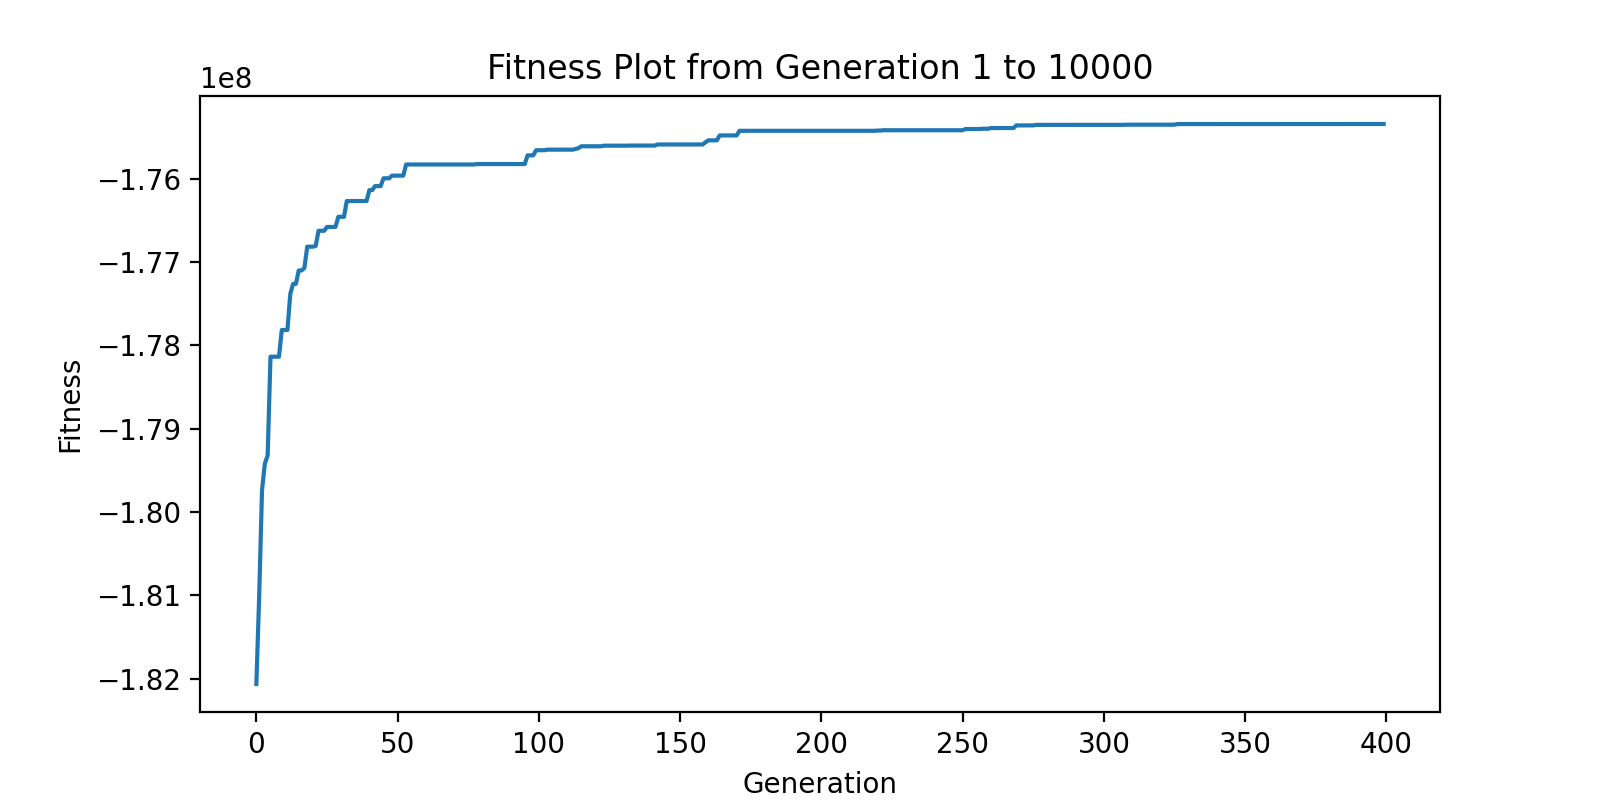
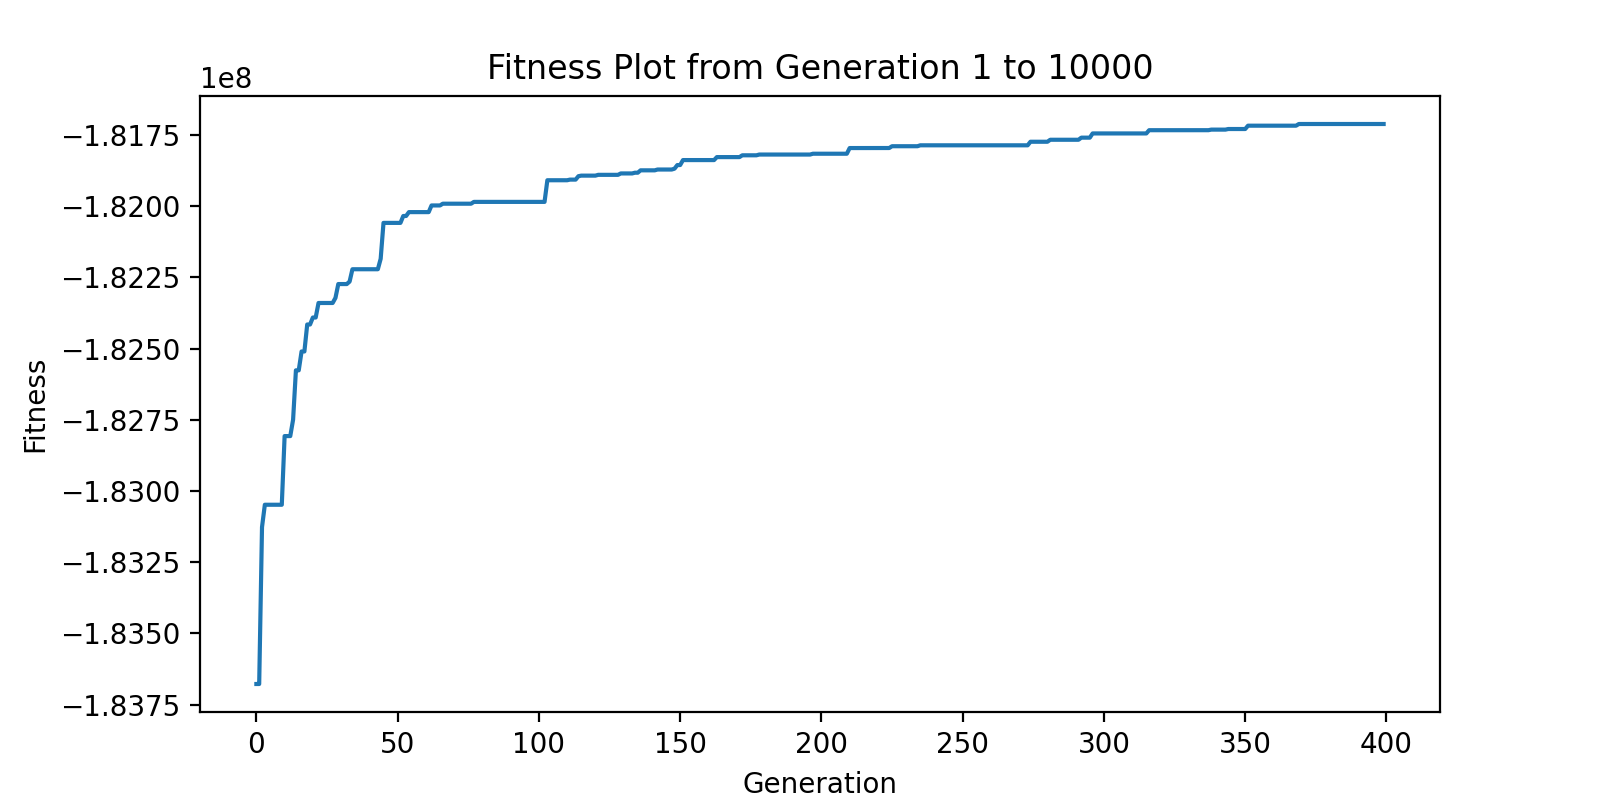
[HW2] multiple pass examples

diff --git a/Homeworks/HW2/multiplecasso.py b/Homeworks/HW2/multiplecasso.py
@@ -26,7 +26,7 @@ import os
 
 # Global variables
 source_image_path = "images/"
-source_image_name = "cafe_terrace_at_night.png"
+source_image_name = "monalisa.jpg"
 source_image = cv2.imread(source_image_path + source_image_name)
 # test = cv2.imread("images/test.png")
 # test_image = cv2.imread("images/test_son.png")
@@ -42,9 +42,11 @@ print_intervals = 10000
 save = True
 
 # Variables------------------------------------------------------------------##
+passes = 10
+
 num_inds = 10 #20  # Individual Number
-num_genes = 10 #50 # Gene Number
-num_generations = 400 # Generation Number
+num_genes = 12 #50 # Gene Number
+num_generations = 500 # Generation Number
 
 tm_size = 5 # Tournament size
 frac_elites = 0.2 # Fraction of elites
@@ -419,19 +421,26 @@ def main(best_img):
 # Run
 best_image = np.zeros([source_image.shape[0],source_image.shape[1],3],dtype=np.uint8)
 best_image.fill(255)
-best_case = main(best_image)
-s_max = int(math.sqrt(h**2+w**2)*0.30)   # Maximum circle size, diagonal of the image, radius  int(math.sqrt(h**2+w**2)*0.35)
-best_case = main(best_case)
-s_max = int(math.sqrt(h**2+w**2)*0.25)   # Maximum circle size, diagonal of the image, radius  int(math.sqrt(h**2+w**2)*0.35)
-best_case = main(best_case)
-s_max = int(math.sqrt(h**2+w**2)*0.20)   # Maximum circle size, diagonal of the image, radius  int(math.sqrt(h**2+w**2)*0.35)
-best_case = main(best_case)
-s_max = int(math.sqrt(h**2+w**2)*0.15)   # Maximum circle size, diagonal of the image, radius  int(math.sqrt(h**2+w**2)*0.35)
-best_case = main(best_case)
-s_max = int(math.sqrt(h**2+w**2)*0.10)   # Maximum circle size, diagonal of the image, radius  int(math.sqrt(h**2+w**2)*0.35)
-best_case = main(best_case)
-s_max = int(math.sqrt(h**2+w**2)*0.05)   # Maximum circle size, diagonal of the image, radius  int(math.sqrt(h**2+w**2)*0.35)
-best_case = main(best_case)
+start_time = time.time()
+for i in range(passes):
+    best_image = main(best_image)
+    s_max = int(math.sqrt(h**2+w**2)*0.40/((i+1)/2))   # Maximum circle size, diagonal of the image, radius  int(math.sqrt(h**2+w**2)*0.35)
+end_time = time.time()
+print("Elapsed time: ", end_time - start_time)
+
+# best_case = main(best_image)
+# s_max = int(math.sqrt(h**2+w**2)*0.30)   # Maximum circle size, diagonal of the image, radius  int(math.sqrt(h**2+w**2)*0.35)
+# best_case = main(best_case)
+# s_max = int(math.sqrt(h**2+w**2)*0.25)   # Maximum circle size, diagonal of the image, radius  int(math.sqrt(h**2+w**2)*0.35)
+# best_case = main(best_case)
+# s_max = int(math.sqrt(h**2+w**2)*0.20)   # Maximum circle size, diagonal of the image, radius  int(math.sqrt(h**2+w**2)*0.35)
+# best_case = main(best_case)
+# s_max = int(math.sqrt(h**2+w**2)*0.15)   # Maximum circle size, diagonal of the image, radius  int(math.sqrt(h**2+w**2)*0.35)
+# best_case = main(best_case)
+# s_max = int(math.sqrt(h**2+w**2)*0.10)   # Maximum circle size, diagonal of the image, radius  int(math.sqrt(h**2+w**2)*0.35)
+# best_case = main(best_case)
+# s_max = int(math.sqrt(h**2+w**2)*0.05)   # Maximum circle size, diagonal of the image, radius  int(math.sqrt(h**2+w**2)*0.35)
+# best_case = main(best_case)
 # image = np.zeros([source_image.shape[0],source_image.shape[1],3],dtype=np.uint8)
 # image.fill(255)
 # best_case.genes.sort(key=lambda x: x.s, reverse=True)
